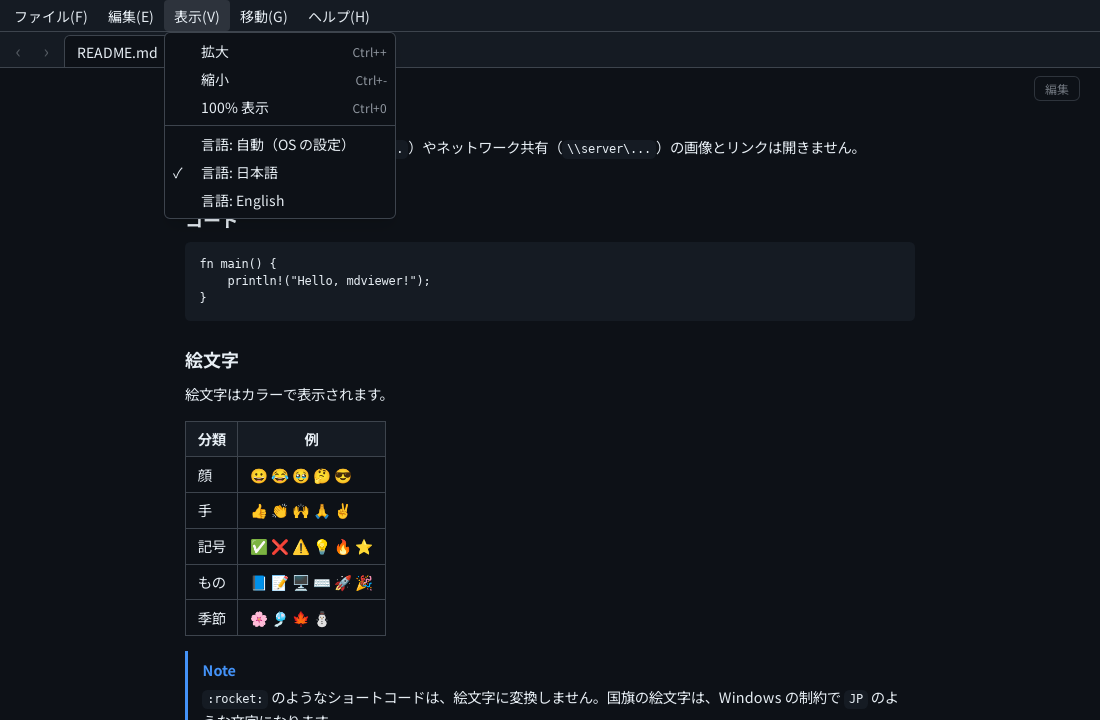
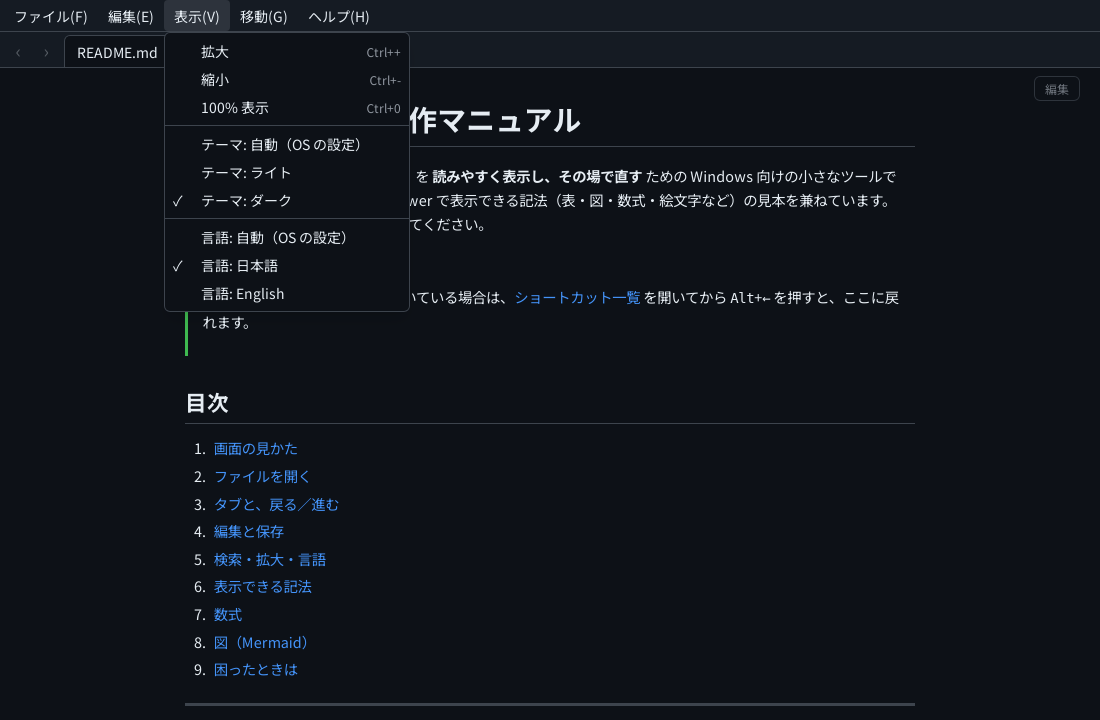
Add a theme setting to the View menu (automatic, light, dark)
- The choice is saved and applied at the next launch
- <html data-theme> drives the colors; without the theme plugin the OS
  setting still decides
- Mermaid diagrams are redrawn in the new theme (the source is kept on
  the diagram element); before, they kept the theme from first load
- The window frame follows the theme (window.setTheme; null = OS)
- Menu screenshot retaken to show the theme items; docs updated

Claude-Session: https://claude.ai/code/session_014WACe7tbnv69AqTmDkT8nE

diff --git a/ui/src/plugins/mermaid.ts b/ui/src/plugins/mermaid.ts
@@ -1,33 +1,42 @@
 // Mermaid diagrams for ```mermaid code blocks.
 // The library is loaded only when a document contains a diagram, so it costs nothing at startup.
 import type { Plugin } from '../core/types';
+import { currentTheme } from './theme';
 
 type Mermaid = typeof import('mermaid').default;
 let mermaid: Promise<Mermaid> | null = null;
 
 function loadMermaid(): Promise<Mermaid> {
-  mermaid ??= import('mermaid').then(({ default: m }) => {
-    const dark = window.matchMedia('(prefers-color-scheme: dark)').matches;
-    m.initialize({ startOnLoad: false, securityLevel: 'strict', theme: dark ? 'dark' : 'default' });
-    return m;
-  });
+  mermaid ??= import('mermaid').then(({ default: m }) => m);
   return mermaid;
 }
 
 let seq = 0;
 
+/** Draw `source` into `target` (a `div.mermaid`), in the current theme. */
+async function draw(m: Mermaid, target: HTMLElement, source: string): Promise<void> {
+  const { svg } = await m.render(`mermaid-${++seq}`, source);
+  target.innerHTML = svg;
+}
+
+function configure(m: Mermaid): void {
+  m.initialize({ startOnLoad: false, securityLevel: 'strict', theme: currentTheme() === 'dark' ? 'dark' : 'default' });
+}
+
 export async function renderDiagrams(root: HTMLElement): Promise<void> {
   const blocks = [...root.querySelectorAll<HTMLElement>('pre > code.language-mermaid')];
   if (blocks.length === 0) return;
   const m = await loadMermaid();
+  configure(m);
   for (const code of blocks) {
     const pre = code.parentElement;
     if (!pre) continue;
+    const source = code.textContent ?? '';
     try {
-      const { svg } = await m.render(`mermaid-${++seq}`, code.textContent ?? '');
       const div = document.createElement('div');
       div.className = 'mermaid';
-      div.innerHTML = svg;
+      div.dataset.source = source; // kept so the diagram can be redrawn when the theme changes
+      await draw(m, div, source);
       pre.replaceWith(div);
     } catch (err) {
       const note = document.createElement('p');
@@ -38,10 +47,22 @@ export async function renderDiagrams(root: HTMLElement): Promise<void> {
   }
 }
 
+/** Redraw every diagram on the page (all tabs) in the current theme. */
+export async function redrawDiagrams(): Promise<void> {
+  const divs = [...document.querySelectorAll<HTMLElement>('div.mermaid[data-source]')];
+  if (divs.length === 0) return;
+  const m = await loadMermaid();
+  configure(m);
+  for (const div of divs) {
+    await draw(m, div, div.dataset.source ?? '').catch((e) => console.error(e));
+  }
+}
+
 const mermaidPlugin: Plugin = {
   name: 'mermaid',
   setup(app) {
     app.on('view:updated', (root) => void renderDiagrams(root).catch((e) => console.error(e)));
+    app.on('plugin:theme', () => void redrawDiagrams());
   },
 };
 export default mermaidPlugin;

diff --git a/ui/src/plugins/theme.ts b/ui/src/plugins/theme.ts
@@ -1,0 +1,63 @@
+// Color theme: automatic (follows the OS), light or dark. The choice is remembered.
+// The resolved theme is set as <html data-theme="light|dark">; app.css picks colors from it.
+
+import type { Plugin } from '../core/types';
+
+export type ThemeSetting = 'auto' | 'light' | 'dark';
+export type Theme = 'light' | 'dark';
+
+const OPTIONS: ThemeSetting[] = ['auto', 'light', 'dark'];
+
+export function parseTheme(value: unknown): ThemeSetting {
+  return OPTIONS.includes(value as ThemeSetting) ? (value as ThemeSetting) : 'auto';
+}
+
+export function resolveTheme(setting: ThemeSetting, systemDark: boolean): Theme {
+  if (setting === 'auto') return systemDark ? 'dark' : 'light';
+  return setting;
+}
+
+/** The theme in effect (also used by plugins that draw their own colors, such as Mermaid). */
+export function currentTheme(): Theme {
+  const set = document.documentElement.dataset.theme;
+  if (set === 'light' || set === 'dark') return set;
+  return window.matchMedia?.('(prefers-color-scheme: dark)').matches ? 'dark' : 'light';
+}
+
+const theme: Plugin = {
+  name: 'theme',
+  setup(app) {
+    let setting = parseTheme(app.storage.get('theme'));
+    const media = window.matchMedia?.('(prefers-color-scheme: dark)');
+
+    const apply = () => {
+      const resolved = resolveTheme(setting, media?.matches ?? false);
+      if (document.documentElement.dataset.theme === resolved) return;
+      document.documentElement.dataset.theme = resolved;
+      app.emit('plugin:theme', resolved);
+    };
+    const set = (next: ThemeSetting) => {
+      setting = next;
+      app.storage.set('theme', next);
+      // The window frame (title bar) follows too; `null` hands it back to the OS.
+      void app.backend.setTheme(next === 'auto' ? null : next).catch(() => {});
+      apply();
+      app.emit('plugin:theme-setting', next);
+    };
+
+    void app.backend.setTheme(setting === 'auto' ? null : setting).catch(() => {});
+    apply();
+    media?.addEventListener?.('change', apply);
+
+    OPTIONS.forEach((option, i) => {
+      app.command({
+        id: `theme.${option}`,
+        title: `cmd.theme.${option}`,
+        run: () => set(option),
+        checked: () => setting === option,
+      });
+      app.addMenuItem({ menu: 'view', command: `theme.${option}`, group: 80, order: i });
+    });
+  },
+};
+export default theme;

diff --git a/ui/src/plugins/plugins.test.ts b/ui/src/plugins/plugins.test.ts
@@ -4,6 +4,7 @@ import { fakeBackend } from '../test/fake-backend';
 import { checkForChange } from './auto-reload';
 import { anchorId, classifyLink } from './links';
 import { typeset } from './math';
+import theme, { parseTheme, resolveTheme } from './theme';
 import { windowTitle } from './title';
 import { clampZoom, MAX, MIN } from './zoom';
 
@@ -68,4 +69,36 @@ test('typeset renders inline, display and ```math blocks with KaTeX', async () =
   expect(root.querySelectorAll('.katex-display')).toHaveLength(2);
   expect(root.querySelector('pre')).toBeNull();
   expect(root.textContent).toContain('\\badcommand'); // unknown commands are shown (in red), not thrown
+});
+
+test('parseTheme and resolveTheme', () => {
+  expect(parseTheme('dark')).toBe('dark');
+  expect(parseTheme('purple')).toBe('auto');
+  expect(parseTheme(null)).toBe('auto');
+  expect(resolveTheme('auto', true)).toBe('dark');
+  expect(resolveTheme('auto', false)).toBe('light');
+  expect(resolveTheme('light', true)).toBe('light');
+  expect(resolveTheme('dark', false)).toBe('dark');
+});
+
+test('theme: the saved choice is applied at startup, and a new choice is saved', () => {
+  const backend = fakeBackend();
+  const saved = new Map<string, string>([['theme', 'dark']]);
+  const storage = {
+    get: (k: string) => saved.get(k) ?? null,
+    set: (k: string, v: string | number) => void saved.set(k, String(v)),
+  };
+  const app = new App({ backend, storage }).use(theme);
+  expect(document.documentElement.dataset.theme).toBe('dark');
+  expect(backend.calls).toContainEqual(['setTheme', 'dark']);
+  expect(app.getCommand('theme.dark')?.checked?.()).toBe(true);
+
+  app.run('theme.light');
+  expect(document.documentElement.dataset.theme).toBe('light');
+  expect(saved.get('theme')).toBe('light');
+  expect(app.getCommand('theme.light')?.checked?.()).toBe(true);
+
+  app.run('theme.auto');
+  expect(saved.get('theme')).toBe('auto');
+  expect(backend.calls).toContainEqual(['setTheme', null]);
 });

diff --git a/ui/src/styles/app.css b/ui/src/styles/app.css
@@ -2,20 +2,29 @@
 @import "@fontsource-variable/noto-sans-jp";
 @import "./markdown.css";
 
-/* Colors are CSS variables so light/dark follow the OS; Tailwind utilities map onto them
-   (text-fg, bg-bg, border-line, text-muted, bg-caution, ...). */
+/* Colors are CSS variables; Tailwind utilities map onto them (text-fg, bg-bg, border-line,
+   text-muted, bg-caution, ...). The theme plugin sets <html data-theme="light|dark"> from the
+   View menu setting; without it (plugin turned off) the OS setting decides. */
 :root {
   --fg: #1f2328; --muted: #59636e; --bg: #ffffff; --line: #d1d9e0;
   --code-bg: #f6f8fa; --link: #0969da;
   --note: #0969da; --tip: #1a7f37; --important: #8250df; --warning: #9a6700; --caution: #d1242f;
-  color-scheme: light dark;
+  color-scheme: light;
 }
 @media (prefers-color-scheme: dark) {
-  :root {
+  :root:not([data-theme="light"]) {
     --fg: #e6edf3; --muted: #9198a1; --bg: #0d1117; --line: #3d444d;
     --code-bg: #151b23; --link: #4493f8;
     --note: #4493f8; --tip: #3fb950; --important: #ab7df8; --warning: #d29922; --caution: #f85149;
+    color-scheme: dark;
   }
+}
+/* Same values as the block above (a selector list cannot mix the media query and the attribute). */
+:root[data-theme="dark"] {
+  --fg: #e6edf3; --muted: #9198a1; --bg: #0d1117; --line: #3d444d;
+  --code-bg: #151b23; --link: #4493f8;
+  --note: #4493f8; --tip: #3fb950; --important: #ab7df8; --warning: #d29922; --caution: #f85149;
+  color-scheme: dark;
 }
 
 /* Color emoji fonts, listed explicitly (as GitHub does) so emoji do not depend on the OS's

diff --git a/ui/src/core/types.ts b/ui/src/core/types.ts
@@ -51,6 +51,8 @@ export interface Backend {
   openUrl(url: string): Promise<void>;
   initialPath(): Promise<string | null>;
   setTitle(title: string): Promise<void>;
+  /** Theme of the window frame; `null` follows the OS. */
+  setTheme(theme: 'light' | 'dark' | null): Promise<void>;
   /** Close the window (goes through `onCloseRequested`). */
   closeWindow(): Promise<void>;
   /** The user asked to open a file (drop, second launch). */

diff --git a/ui/src/backend/tauri.ts b/ui/src/backend/tauri.ts
@@ -21,6 +21,7 @@ export function tauriBackend(): Backend {
     openUrl: (url) => invoke<void>('open_url', { url }),
     initialPath: () => invoke<string | null>('initial_path'),
     setTitle: (title) => win.setTitle(title),
+    setTheme: (theme) => win.setTheme(theme),
     closeWindow: () => win.close(),
     onOpenRequest: (cb) => {
       // Emitted by src-tauri/src/main.rs after the file was allowed (drop, second launch).

diff --git a/ui/src/i18n/ja.ts b/ui/src/i18n/ja.ts
@@ -17,6 +17,9 @@ export const ja = {
   'cmd.zoom.in': '拡大',
   'cmd.zoom.out': '縮小',
   'cmd.zoom.reset': '100% 表示',
+  'cmd.theme.auto': 'テーマ: 自動（OS の設定）',
+  'cmd.theme.light': 'テーマ: ライト',
+  'cmd.theme.dark': 'テーマ: ダーク',
   'cmd.lang.auto': '言語: 自動（OS の設定）',
   'cmd.lang.ja': '言語: 日本語',
   'cmd.lang.en': '言語: English',

diff --git a/ui/src/i18n/en.ts b/ui/src/i18n/en.ts
@@ -18,6 +18,9 @@ export const en: Messages = {
   'cmd.zoom.in': 'Zoom In',
   'cmd.zoom.out': 'Zoom Out',
   'cmd.zoom.reset': 'Actual Size',
+  'cmd.theme.auto': 'Theme: Automatic (system)',
+  'cmd.theme.light': 'Theme: Light',
+  'cmd.theme.dark': 'Theme: Dark',
   'cmd.lang.auto': 'Language: Automatic (system)',
   'cmd.lang.ja': 'Language: 日本語',
   'cmd.lang.en': 'Language: English',

diff --git a/ui/src/plugins/index.ts b/ui/src/plugins/index.ts
@@ -12,6 +12,7 @@ import menu from './menu';
 import mermaid from './mermaid';
 import openFile from './open-file';
 import tabs from './tabs';
+import theme from './theme';
 import title from './title';
 import view from './view';
 import zoom from './zoom';
@@ -26,6 +27,7 @@ const plugins: Plugin[] = [
   links,
   zoom,
   find,
+  theme,
   language,
   help,
   autoReload,

diff --git a/ui/src/test/fake-backend.ts b/ui/src/test/fake-backend.ts
@@ -73,6 +73,9 @@ export function fakeBackend(files: Record<string, string> = {}, { answer = true 
     async setTitle(t) {
       calls.push(['setTitle', t]);
     },
+    async setTheme(theme) {
+      calls.push(['setTheme', theme]);
+    },
     async closeWindow() {
       calls.push(['closeWindow']);
     },

diff --git a/README.md b/README.md
@@ -19,7 +19,7 @@
 | 表・タスクリスト・アラート | 編集モード（Markdown をそのまま編集） |
 |:---:|:---:|
 | ![表・タスクリスト・アラートの表示](docs/images/screenshot-syntax.png) | ![編集モード](docs/images/screenshot-editor.png) |
-| **ダークモードと検索（絵文字もカラーで表示）** | **メニュー（日本語／English）** |
+| **ダークモードと検索（絵文字もカラーで表示）** | **表示メニュー（テーマと言語を切り替え）** |
 | ![ダークモードで検索しているところ](docs/images/screenshot-dark-find.png) | ![表示メニュー](docs/images/screenshot-menu.png) |
 
 スクリーンショットは開発環境（Linux 版のビルド）で撮影しています。Windows では、ウィンドウ枠と絵文字の絵柄（Segoe UI Emoji）が異なります。
@@ -47,7 +47,7 @@ Documentation is in Japanese; issues and pull requests in English are welcome.
 | 拡大・縮小 | <kbd>Ctrl</kbd>+ホイール / <kbd>Ctrl</kbd>+<kbd>+</kbd> <kbd>-</kbd>（<kbd>Ctrl</kbd>+<kbd>0</kbd> で 100%）。倍率は次回も維持 |
 | 自動再読み込み | ファイルが更新されると表示を自動更新（スクロール位置は維持）。手動は <kbd>F5</kbd>。未保存の編集は上書きしない |
 | リンク | `#見出し` は文書内ジャンプ、`other.md` はビューアで開く、`https://` は既定のブラウザで開く |
-| ダークモード | OS の設定に追従 |
+| テーマ（ダークモード） | 「表示」メニューで 自動（OS の設定に追従）／ライト／ダーク を選べる（選択は次回も維持）。図（Mermaid）の色も切り替わる |
 | 日本語フォント | Noto Sans JP を同梱（PC にインストールされていなくても同じ見た目） |
 | 絵文字 | ✅ ⚠ 🚀 などをカラーで表示（Windows では Segoe UI Emoji）。国旗の絵文字は Windows の制約で文字（`JP` など）になる。`:rocket:` のようなショートコードは変換しない |
 
@@ -107,7 +107,7 @@ Documentation is in Japanese; issues and pull requests in English are welcome.
 | `math` | 有効 | 数式。KaTeX は数式を含む文書を開いたときだけ読み込む |
 | `mermaid` | 有効 | ```` ```mermaid ```` ブロックを図として描画。ライブラリは図を含む文書を開いたときだけ読み込む |
 | `gfm`, `heading-anchors`, `local-images` | 有効 | Markdown の拡張記法、見出しアンカー、相対パス画像 |
-| `menu`, `tabs`, `view`, `editor`, `find`, `language`, `help`, `zoom`, `links`, `auto-reload`, `title`, `open-file` | 有効 | 各 UI 機能 |
+| `menu`, `tabs`, `view`, `editor`, `find`, `theme`, `language`, `help`, `zoom`, `links`, `auto-reload`, `title`, `open-file` | 有効 | 各 UI 機能 |
 
 設定の変更は次回起動時に反映されます。
 

diff --git a/docs/PLUGINS.md b/docs/PLUGINS.md
@@ -114,7 +114,7 @@ export default myPlugin;
 | `app.update(text, tab?)` / `app.refresh(tab?)` / `app.save(tab?)` | テキストの更新 / 変更があれば再描画 / 保存（外部で変更されていれば確認する） |
 | `app.confirmDiscard(tab?)` / `app.confirmExit()` | 未保存の変更を破棄してよいか確認する（変更がなければすぐに true を返す）/ 終了前に、未保存のタブがあれば1回だけ確認する |
 | `app.setMode(mode, tab?)` | 表示と編集を切り替える。`'view'` に切り替えるときは `refresh()` も行う |
-| `app.backend` | ホスト機能（`Backend` 型）。文書は `open` / `openLink` が返す文書 ID（`doc.id`）で指定する：`reload(id)`、`render(id, text)`、`save(id, text)`、`mtime(id)`、`closeDoc(id)`。ほかに `appInfo`、`pickFile`、`ask`、`openUrl`、`initialPath`、`setTitle`、`closeWindow`、`onOpenRequest`、`onCloseRequested` |
+| `app.backend` | ホスト機能（`Backend` 型）。文書は `open` / `openLink` が返す文書 ID（`doc.id`）で指定する：`reload(id)`、`render(id, text)`、`save(id, text)`、`mtime(id)`、`closeDoc(id)`。ほかに `appInfo`、`pickFile`、`ask`、`openUrl`、`initialPath`、`setTitle`、`setTheme`、`closeWindow`、`onOpenRequest`、`onCloseRequested` |
 
 画面部品の中で `app` の変化に追随して再描画したいときは、`useAppVersion(app)`（`core/useApp.ts`）を呼びます。
 
@@ -188,7 +188,7 @@ const wordCount: Plugin = { name: 'word-count', setup: (app) => app.addOverlay(W
 export default wordCount;
 ```
 
-スタイルは Tailwind のユーティリティで書きます。テーマ色（`text-fg`, `bg-bg`, `border-line`, `text-muted`, `text-link`, `bg-caution`）を使えば、ダークモードにも自動で対応します。
+スタイルは Tailwind のユーティリティで書きます。テーマ色（`text-fg`, `bg-bg`, `border-line`, `text-muted`, `text-link`, `bg-caution`）を使えば、ダークモードにも自動で対応します。テーマは `<html data-theme="light|dark">` に反映され、変わると `plugin:theme` イベントが発行されます（独自に色を持つ部品は、`mermaid.ts` のようにこれを購読して描き直します）。
 
 ### 指針
 
